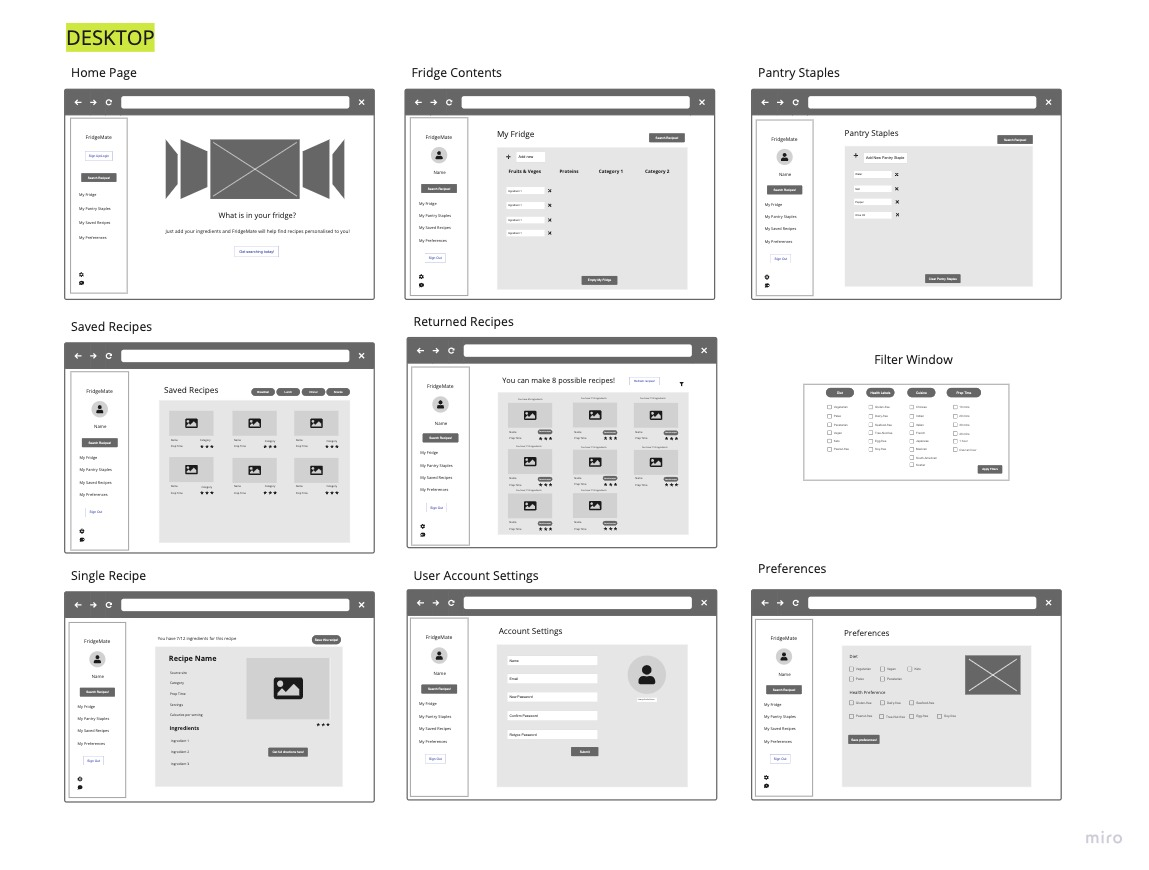
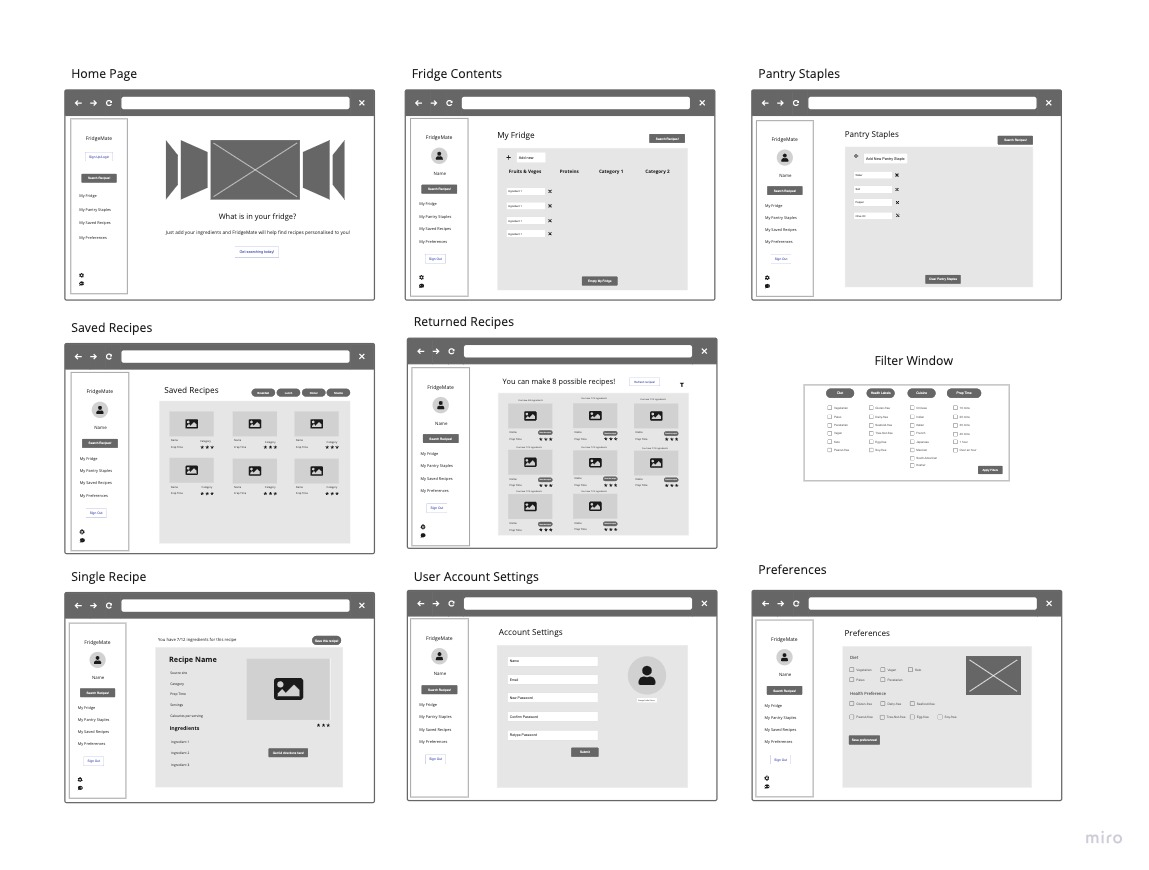
set up prototypes

diff --git a/README.md b/README.md
@@ -5,7 +5,7 @@
 |Shelby El-rassi|Adrienne Smith|
 |:-------------:|:-------------:|
 |[www.shelby-el-rassi.com](www.shelby-el-rassi.com)  |[]() |
-|[github.com/Shelby219](www.shelby-el-rassi.com/)  |[github.com/aes89](https://github.com/aes89) |
+|[github.com/Shelby219](https://github.com/Shelby219)  |[github.com/aes89](https://github.com/aes89) |
 
 ---
 
@@ -313,9 +313,11 @@ The overall goal of this application is a search application based on user ingre
 </details>
 
 ---
-### Wireframes
+### Design Planning
 
-#### Version 1
+#### Moodboard
+![Moodboard](wireframes/Moodboard.png)  
+#### Wireframes
 
 <details><summary>Click to expand</summary>
 
@@ -332,16 +334,16 @@ The overall goal of this application is a search application based on user ingre
 </details>
         
 
-#### Version 2
+#### Prototypes
 
 <details><summary>Click to expand</summary>
 
 #### Mobile
-![Mobile Wireframe 1](screenshots/Mobile1.png)
+![Mobile Proto ](screenshots/Mobileproto.png)
 #### Tablet
-![Tablet Wireframe 1](screenshots/Tablet1.png)
+![Tablet Proto ](screenshots/Tabletproto.png)
 #### Desktop
-![Desktop Wireframe 1](screenshots/Desktop1.png)
+![Desktop Proto ](screenshots/Desktopproto.png)
              
 </details>
 
